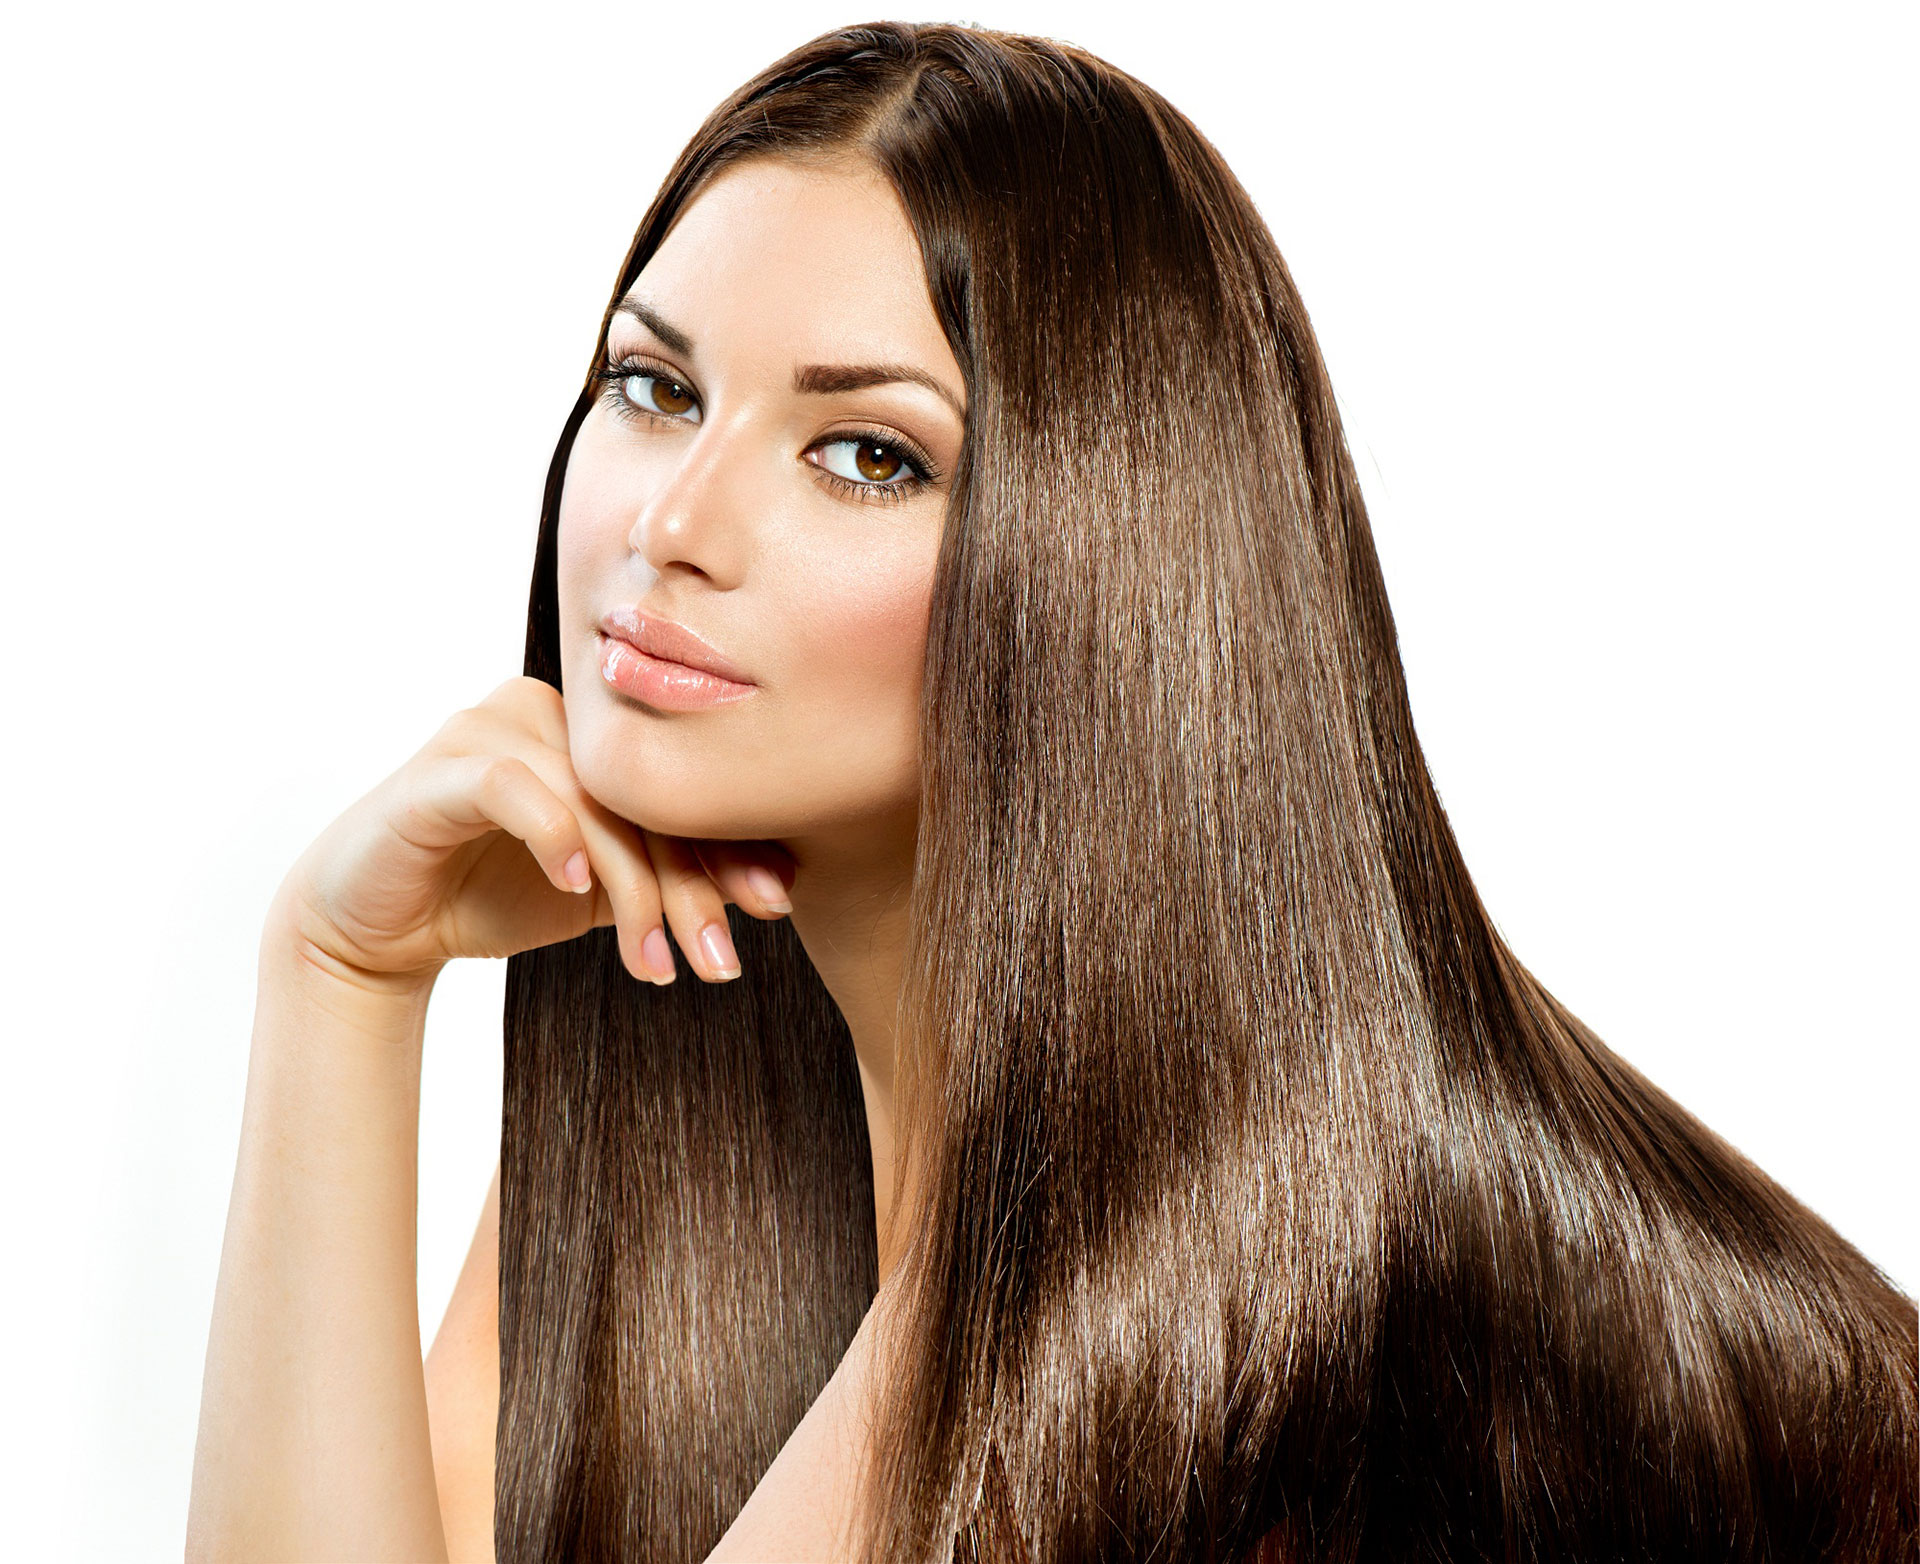
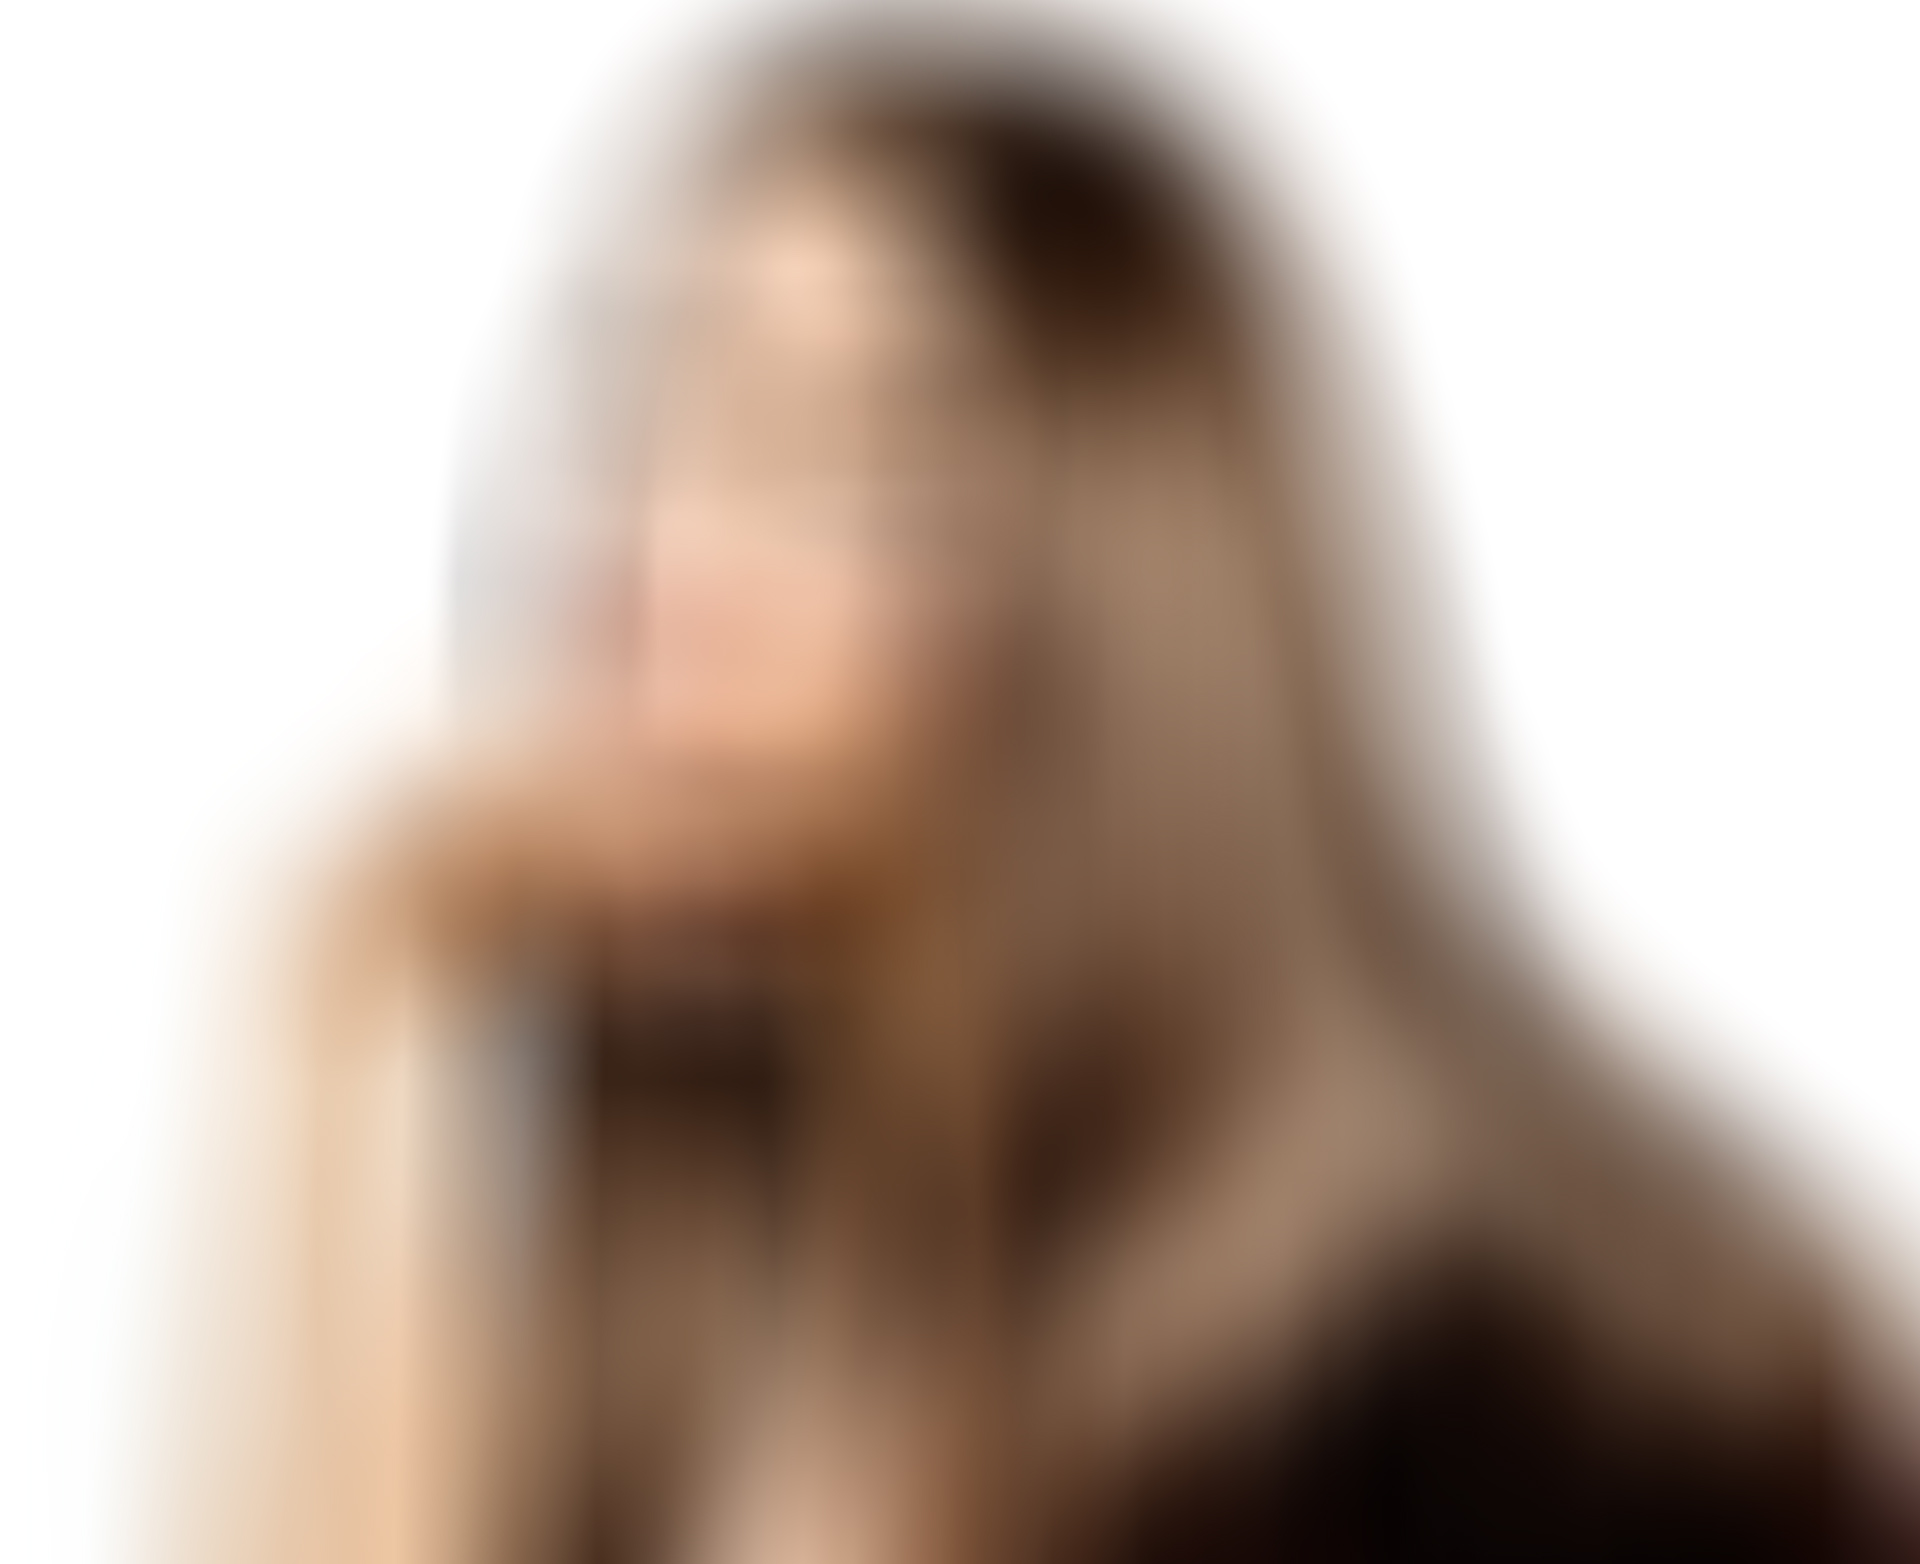
update blur images in intro page

diff --git a/templates/css/styles_new.css b/templates/css/styles_new.css
@@ -17,7 +17,7 @@ body {
 	margin-bottom: 30px;
 }
 .swiper_banner .swiper-slide .img_blur img {
-	filter: blur(10px);
+	/*filter: blur(10px);*/
 	object-fit: cover;
 	height: 183px;
 }
@@ -72,17 +72,17 @@ body {
 	z-index: 9;
 	left: -30px;
 }
-.w_box_img_blurring_item:nth-child(2) img {
+/*.w_box_img_blurring_item:nth-child(2) img {
 	filter: blur(5px);
-}
+}*/
 .w_box_img_blurring_item:nth-child(3) {
 	position: relative;
 	z-index: 8;
 	left: -60px;
 }
-.w_box_img_blurring_item:nth-child(3) img {
+/*.w_box_img_blurring_item:nth-child(3) img {
 	filter: blur(10px);
-}
+}*/
 ul.list_blurring {
 	list-style: none;
 	counter-reset: my-awesome-counter;

diff --git a/site/views/home/index.php b/site/views/home/index.php
@@ -118,19 +118,19 @@
                                     <div class="box_img_blurring">
                                         <div class="w_box_img_blurring_item">
                                             <div class="box_img_blurring_item">
-                                                <img src="<?php echo base_url().'templates/';?>images/1x/depositphoto_18568645.jpg" alt="" class="img-responsive">
+                                                <img src="<?php echo base_url().'templates/';?>images/1x/depositphoto_18568645_0.jpg" alt="" class="img-responsive">
                                             </div>
                                             <p>0% sløret</p>
                                         </div>
                                         <div class="w_box_img_blurring_item">
                                             <div class="box_img_blurring_item">
-                                                <img src="<?php echo base_url().'templates/';?>images/1x/depositphoto_18568645.jpg" alt="" class="img-responsive">
+                                                <img src="<?php echo base_url().'templates/';?>images/1x/depositphoto_18568645_50.jpg" alt="" class="img-responsive">
                                             </div>
                                             <p>50% sløret</p>
                                         </div>
                                         <div class="w_box_img_blurring_item">
                                             <div class="box_img_blurring_item">
-                                                <img src="<?php echo base_url().'templates/';?>images/1x/depositphoto_18568645.jpg" alt="" class="img-responsive">
+                                                <img src="<?php echo base_url().'templates/';?>images/1x/depositphoto_18568645_100.jpg" alt="" class="img-responsive">
                                             </div>
                                             <p>100% sløret</p>
                                         </div>
@@ -169,7 +169,7 @@
                                 <div class="col-lg-6 col-md-6 col-sm-6 col-xs-12 text-center">
                                     <h2>Blokering</h2>
                                     <div class="box_img_blocking">
-                                        <a href="#"><img src="<?php echo base_url().'templates/';?>images/1x/depositphoto_9224436.jpg" alt="" class="img-responsive"></a>
+                                        <a href="#"><img src="<?php echo base_url().'templates/';?>images/1x/depositphoto_9224436_0.jpg" alt="" class="img-responsive"></a>
                                         <p>Bloker</p>
                                     </div>
                                     <p>Ønsker du ikke at være synlig overfor enkelte profiler, så kan du via blokering skjule dig, så du ikke er synlig på deres søgning.</p>
